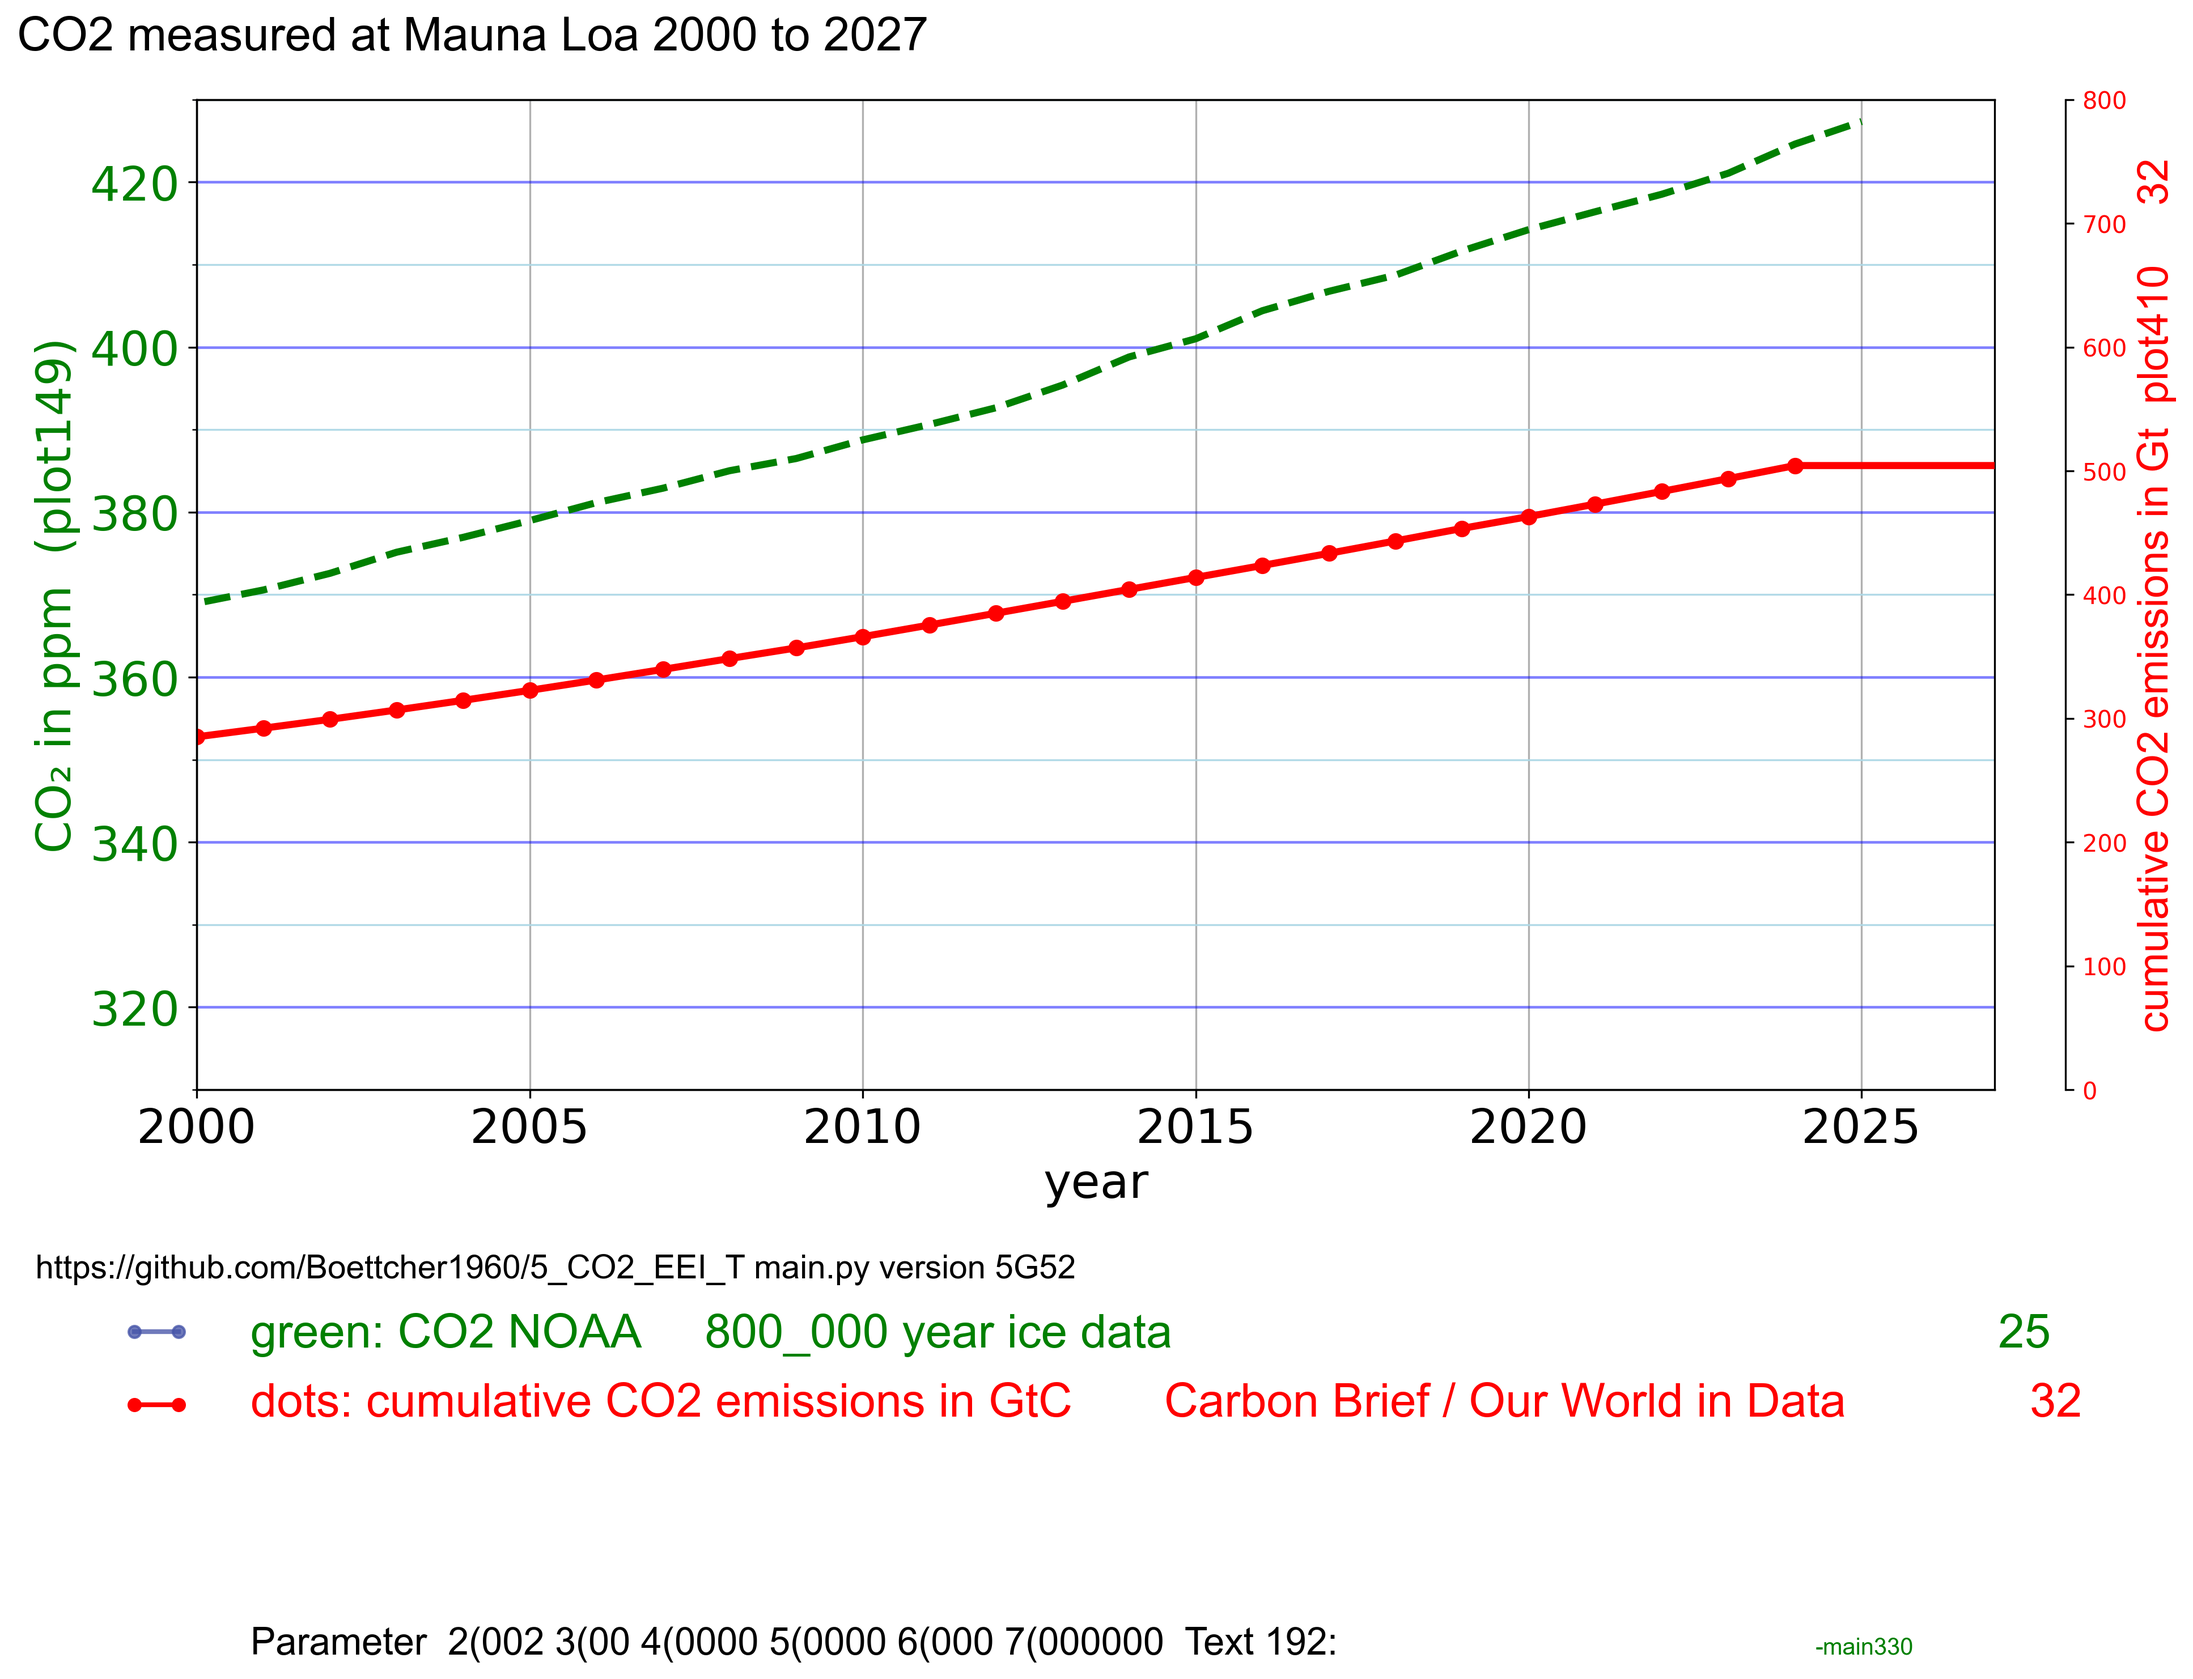
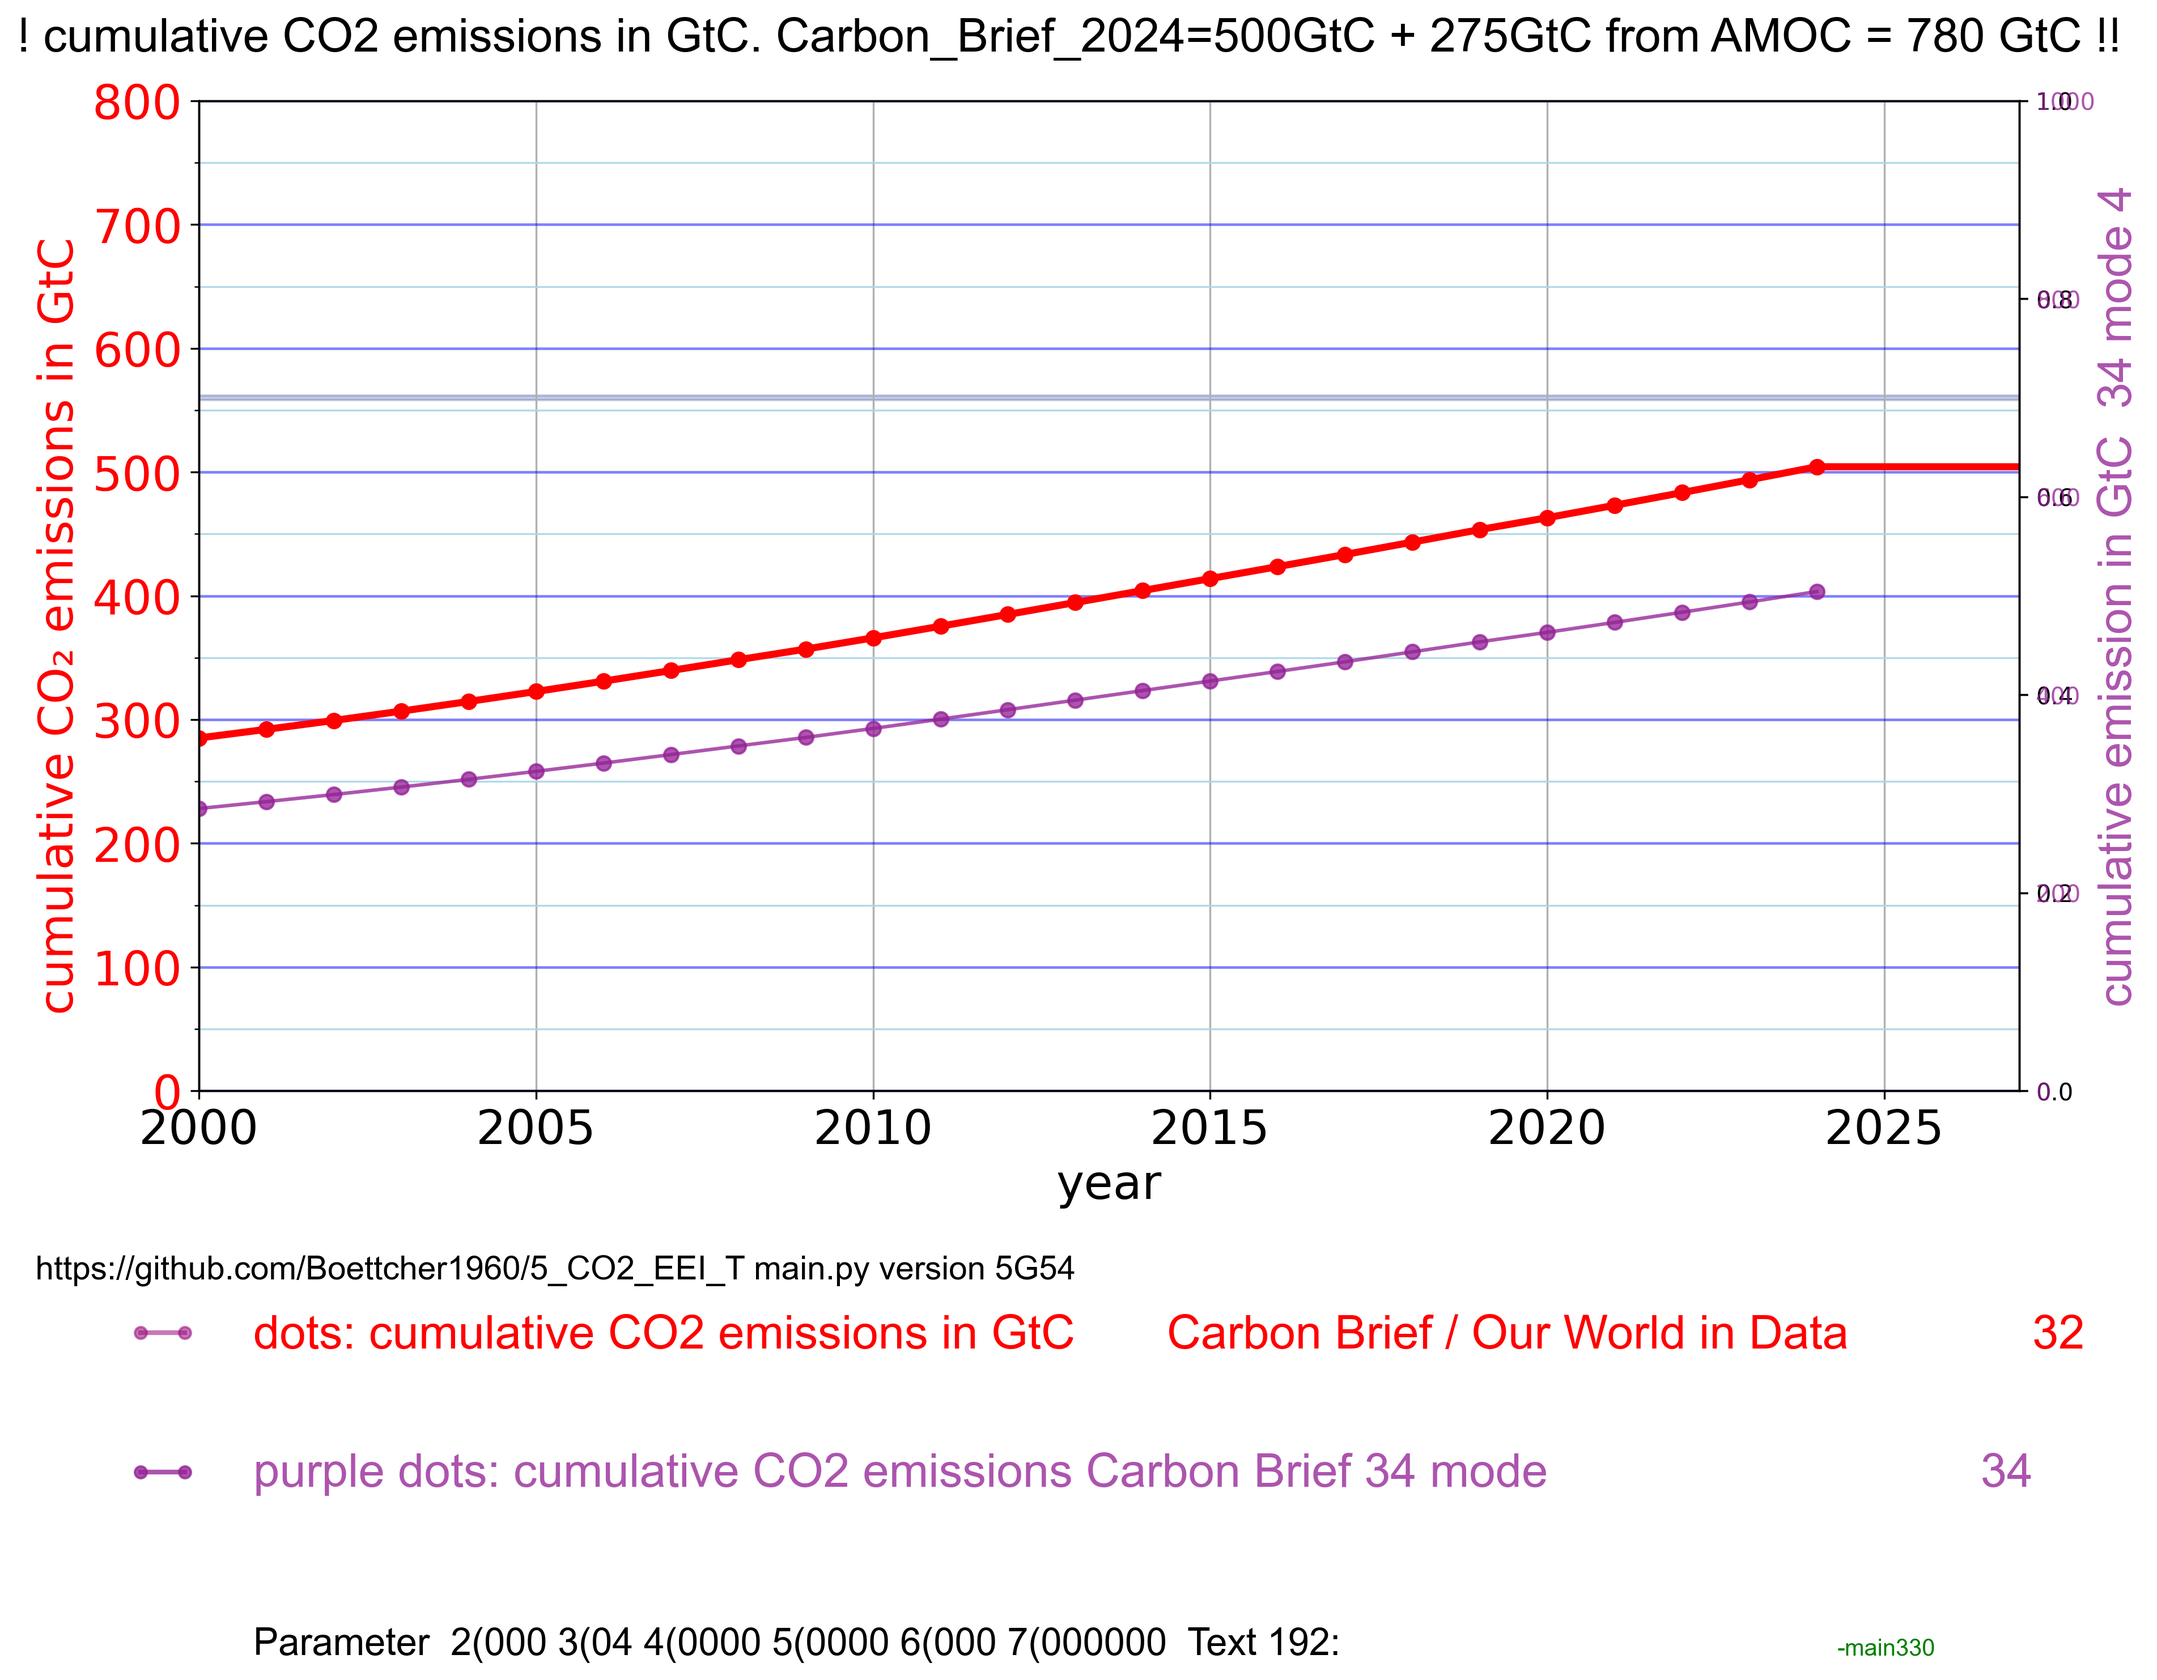
5G54

diff --git a/config.py b/config.py
@@ -25,10 +25,10 @@ plot25_long_CO2 = 0   # 2, 3 25.1
 plot31_CO2_emission = 0  # 2, 3, 4   # 31.1 CO2_emission 1800 Gt CO2 Carbon Brief made with play_63_CB 
 plot32_CO2_emission = 2  # 2, 3 # CO2_emission 600 GtC Carbon Brief made with play_63_CB 
 
-plot34_CO2_emission =    4   # 34.1 row 4 
-plot34_CO2_emission_mode = 4 # 34.1 mode 
+plot34_CO2_emission = 4      # 4,     # 34.1 row 4 
+plot34_CO2_emission_mode = 4 # 2, 4   # 34.1 mode 
 # plot31__CO2_emission mode 1 # plot32__CO2_emission mode 2 # plot33__CO2_emission mode 3
-plot34_CO2 = 0 # plot34_CO2_emission mode 4
+plot34_CO2 = 0 # 0     plot34_CO2_emission mode 4
 
 plot42_EEI_48month = 0  # 2,3,4,5 print EEI 48 month running mean. Info in line 4 below the plot
 plot43_eei_12month = 0  # 2, 3, 4 , 2=left y axis 3,4 print EEI 12 month running mean. [W/m2]

diff --git a/models.py b/models.py
@@ -125,9 +125,10 @@ T_71values = T_model71(years71)
 # plot34_CO2  3 variable is complex
 #   ##############################
 #########################################################
-# plot34_CO2_emission = 4   # 34.1 row 4 
-# plot34_CO2_emission_mode = 2 # 34.1 mode 
+# plot34_CO2_emission =    4   # 34.1 row 4 
+# plot34_CO2_emission_mode = 4 # 2, 4 34.1 mode 
 #      plot31__CO2_emission mode 1 # plot32__CO2_emission mode 2 # plot33__CO2_emission mode 3
-# plot34_CO2 = 0 # plot34_CO2_emission mode 4
+# plot34_CO2_emission_mode = 2 # 34.1 mode 
 #
-# 2026.10.15 plots using 3   plot34_CO2_emission = 4  plot34_CO2_emission_mode = 2
+# 2026.10.15 plots using 3   plot34_CO2_emission = 4  plot34_CO2_emission_mode = 4
+# bug 2 Yachsen auf der rechten Seite

diff --git a/text.py b/text.py
@@ -345,15 +345,6 @@ def text_9_print_7_lines(fig, ax1, header_parameter):
        text_3_add_legend_line(fig, lr2x1, lr2x2, lr4y, c34)
        text_4_add_text(ax1, tr2x, tr4y, 
                 text34,  c34, trs)
-       
-       
-       line34 = Line2D([lr2x1, lr2x2], [lr4y, lr4y], # y from 0 to 1
-       transform=fig.transFigure,
-       marker="o", markersize=3, color=c34, linewidth=2)
-       fig.add_artist(line34)
-       plt.text(tr2x, tr4y, text34, color=c34, fontname="Arial", fontsize=trs,
-       transform=plt.gca().transAxes)
-       fig.add_artist(line34)
     elif plot42_EEI_48month == 4:
         text_3_add_legend_line(fig, lr2x1, lr2x2, lr4y, c42)
         text_4_add_text(ax1, tr2x, tr4y, 
